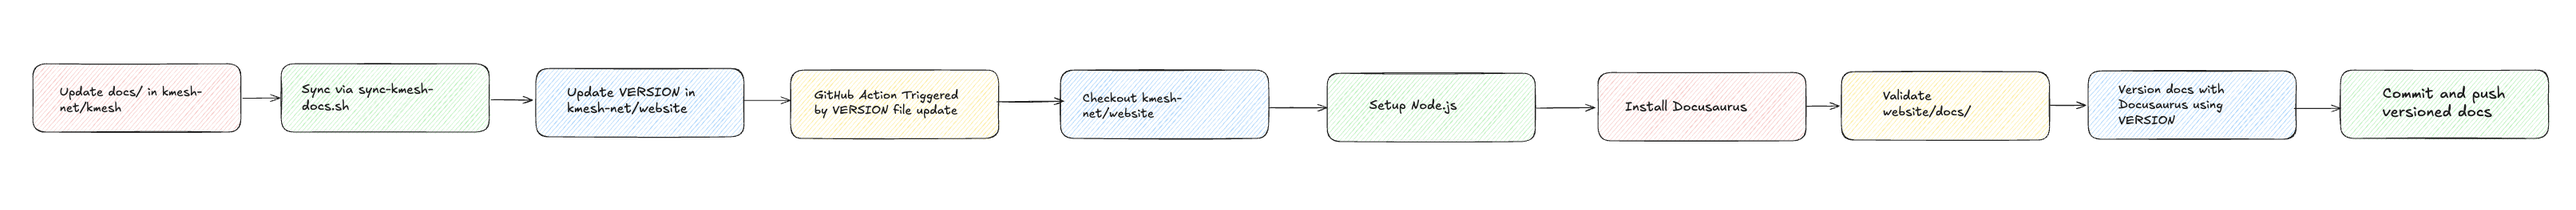
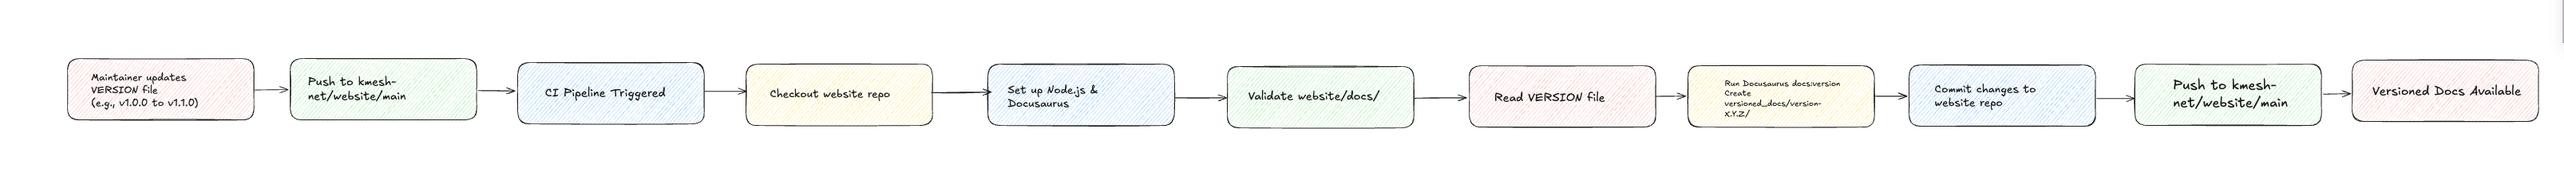
fix(proposal): Updated Solution

Changed region(s): [[0.0, 0.2778, 0.9963, 0.75], [0.9963, 0.0, 1.0, 0.25]]

diff --git a/docs/proposal/Kmesh_website_automation.md b/docs/proposal/Kmesh_website_automation.md
@@ -92,9 +92,23 @@ nitty-gritty.
 
 **Workflow Explanation:**
 
-- This shell script, modeled after the Prometheus Operator’s sync script, copies only the required folders (`application-layer`, `architecture`,`community`, `developer-guide`, `performance`, `setup`, `transport-layer`, `kmeshctl`) from `kmesh-net/kmesh/docs/` to `kmesh-net/website/docs/`
-- when a Netlify webhook is triggered by a commit merged to `kmesh-net/kmesh/main` with changes in docs/.
-- It commits and pushes the changes to `kmesh-net/website/main`, ensuring the website reflects only the specified doc folders.
+- A Netlify webhook is triggered by a commit merged to `kmesh-net/kmesh/main` with changes in `docs/`.
+- The shell script runs on the Netlify server, cloning both `kmesh-net/kmesh` and `kmesh-net/website` repositories.
+- It copies only the required folders (`application-layer`, `architecture`, `community`, `developer-guide`, `performance`, `setup`, `transport-layer`, `kmeshctl`) from `kmesh-net/kmesh/docs/` to `kmesh-net/website/docs/`.
+- The script triggers the Netlify build process to generate and deploy the updated website, without committing or pushing changes to the `kmesh-net/website` repository.
+  
+<br/>
+
+- **Pros:**
+  - Simplifies deployment on Netlify without requiring repository commits.
+  - Uses rsync (a fast tool inspired by Prometheus Operator) to copy only changed files, making updates quick even for small changes.
+  - Includes checks to ensure the `kmesh/docs/ctl/` folder and files exist, preventing errors if something’s missing.
+  
+<br/>  
+
+- **Cons:**
+  - limitations in scaling if the website repo grows significantly.
+  - Netlify-specific dependencies (e.g, Netlify CLI setup).
 
 ```bash
 #!/usr/bin/env bash
@@ -136,17 +150,8 @@ for folder in "${required_folders[@]}"; do
 done
 echo "Synced required folders to repos/website/docs/"
 
-# Commit and push changes to website repo
-cd repos/website
-git config user.name "Kmesh Sync Bot"
-git config user.email "bot@kmesh.net"
-git add docs/
-if git diff --staged --quiet; then
-  echo "No changes to commit"
-  exit 0
-fi
-git commit -m "Sync required folders from kmesh-net/kmesh [$(date -u +%Y-%m-%d)]"
-git push https://$GITHUB_TOKEN@github.com/kmesh-net/website
+# Trigger Netlify build (assumes Netlify CLI is installed and configured)
+netlify deploy --prod --dir repos/website
 ```
 
 - **Solution - 2:**
@@ -188,15 +193,16 @@ git push https://$GITHUB_TOKEN@github.com/kmesh-net/website
 #### 2. Versioning Workflow
 
 - **Solution - 1:**
-
-  - The versioning process using the `VERSION` file begins when developers update documentation in `kmesh-net/kmesh/docs/` and push changes, triggering the `sync-kmesh-docs.sh` script via a Netlify webhook to sync required folders to `kmesh-net/website/docs/`. Next, a developer updates the `VERSION` file in `kmesh-net/website` (e.g., from `v1.0.0` to `v1.1.0`) and pushes the change, activating the **Version kmesh Website Docs** workflow.
-  - The workflow then checks out the local repo, sets up Node.js and Docusaurus, validates the `docs/` directory, creates a versioned snapshot (e.g., `versioned_docs/version-1.1.0/`) using the `VERSION` content, and commits it back to the repository.
-  - This process ensures historical docs are archived and accessible via Docusaurus.
+  - **Workflow Explanation:**
+    - When a new release is planned, a maintainer updates the `VERSION` file in `kmesh-net/website` (e.g., from `v1.0.0` to `v1.1.0`) and pushes the change.
+    - This triggers a CI pipeline in the `kmesh-net/website` repository.
+    - The pipeline checks out the website repository, sets up Node.js and Docusaurus, validates the `docs/` directory, creates a versioned snapshot (e.g., `versioned_docs/version-1.1.0/`) using the `VERSION` file content, and commits the changes back to the `kmesh-net/website` repository.
+    - This ensures historical docs are archived and accessible via Docusaurus’s version navigation.
 
 ![design](/docs/pics/website-versioning-archiving-1.png)
 
 - **Pros:**
-  - Controlled, intentional versioning.
+  - CI pipeline automates versioning based on `VERSION` file changes, reducing manual effort.
   - Reduces unnecessary CI runs.
   - Simple version management.
 
@@ -204,10 +210,57 @@ git push https://$GITHUB_TOKEN@github.com/kmesh-net/website
 
 - **Cons:**
   - Manual updates risk errors.
-  - Requires sync coordination.
+  - Potential risks, if the `VERSION` file format is incorrect.
   - No tag-based fallback.
 
-<br/>
+```yaml
+name: Version Kmesh Website Docs
+on:
+  push:
+    branches:
+      - main
+    paths:
+      - 'VERSION'
+jobs:
+  version-docs:
+    runs-on: ubuntu-latest
+    permissions:
+      contents: write
+    steps:
+      - name: Checkout website repo
+        uses: actions/checkout@v4
+        with:
+          path: website
+          fetch-depth: 1
+      - name: Set up Node.js
+        uses: actions/setup-node@v4
+        with:
+          node-version: '18'
+          cache: 'npm'
+          cache-dependency-path: website/package-lock.json
+      - name: Install Docusaurus
+        run: cd website && npm install
+      - name: Validate docs directory
+        run: |
+          [ -d "website/docs" ] || { echo "Error: website/docs missing"; exit 1; }
+          ls "website/docs/"* >/dev/null 2>&1 || { echo "Error: No files in website/docs"; exit 1; }
+      - name: Read version from VERSION file
+        run: echo "VERSION=$(cat website/VERSION)" >> $GITHUB_ENV
+      - name: Version website docs
+        run: |
+          cd website
+          npx docusaurus docs:version ${{ env.VERSION }}
+          echo "Versioned website docs for ${{ env.VERSION }}"
+      - name: Commit changes
+        run: |
+          cd website
+          git config user.name "Kmesh Version Bot"
+          git config user.email "bot@kmesh.net"
+          git add docs versioned_docs versioned_sidebars.json versions.json
+          git diff --staged --quiet && { echo "No changes to commit"; exit 0; }
+          git commit -m "Version website docs for ${{ env.VERSION }} [$(date -u +%Y-%m-%d)]"
+          git push origin main
+```
 
 - **Solution - 2:**
 
@@ -353,11 +406,11 @@ bogged down.
 
 ##### Story 1
 
-- As a kmesh developer, I want `kmesh/docs/ctl/` changes to automatically update the website, so users always see the latest guides without manual effort.
+- As a Kmesh developer, I want kmesh/docs/ changes to automatically trigger a Netlify build and deploy the updated website, so users see the latest docs without manual intervention.
 
 ##### Story 2
 
-- As a website maintainer, I want old docs archived and new versions published when a tag is created, so users can access historical versions via Docusaurus.
+- As a website maintainer, I want versioning to happen automatically when the VERSION file is updated, archiving old docs and committing changes via CI.
 
 #### Notes/Constraints/Caveats (Optional)
 
